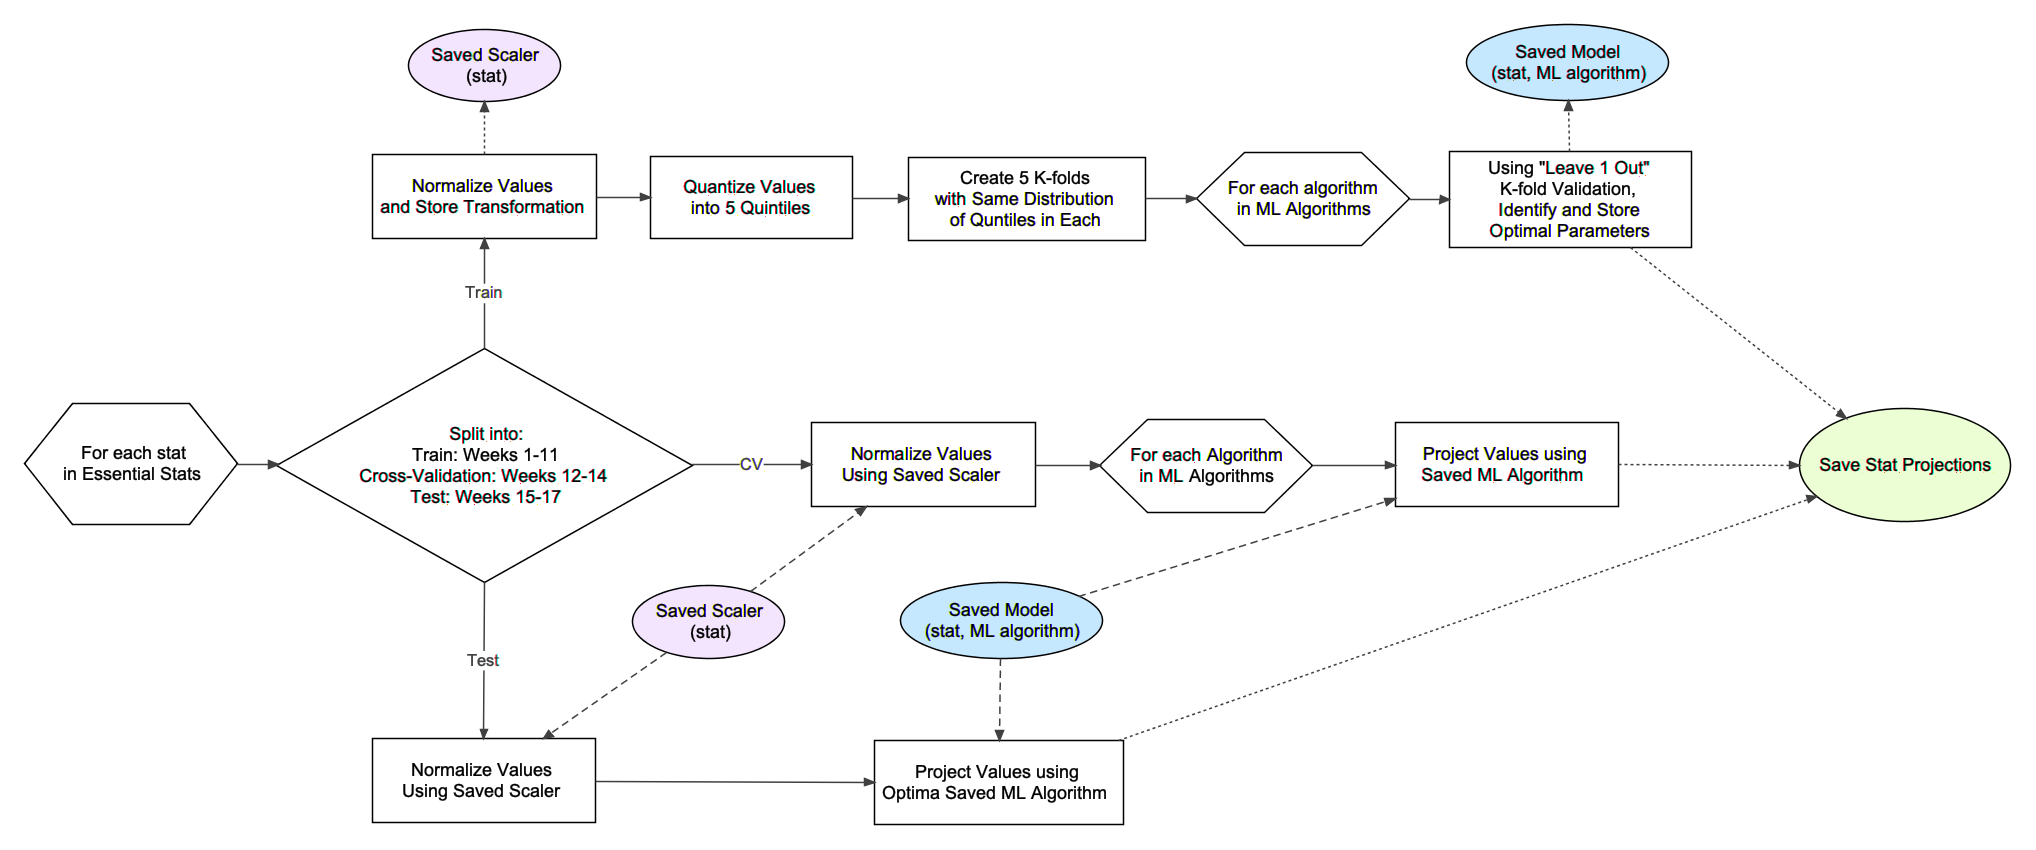
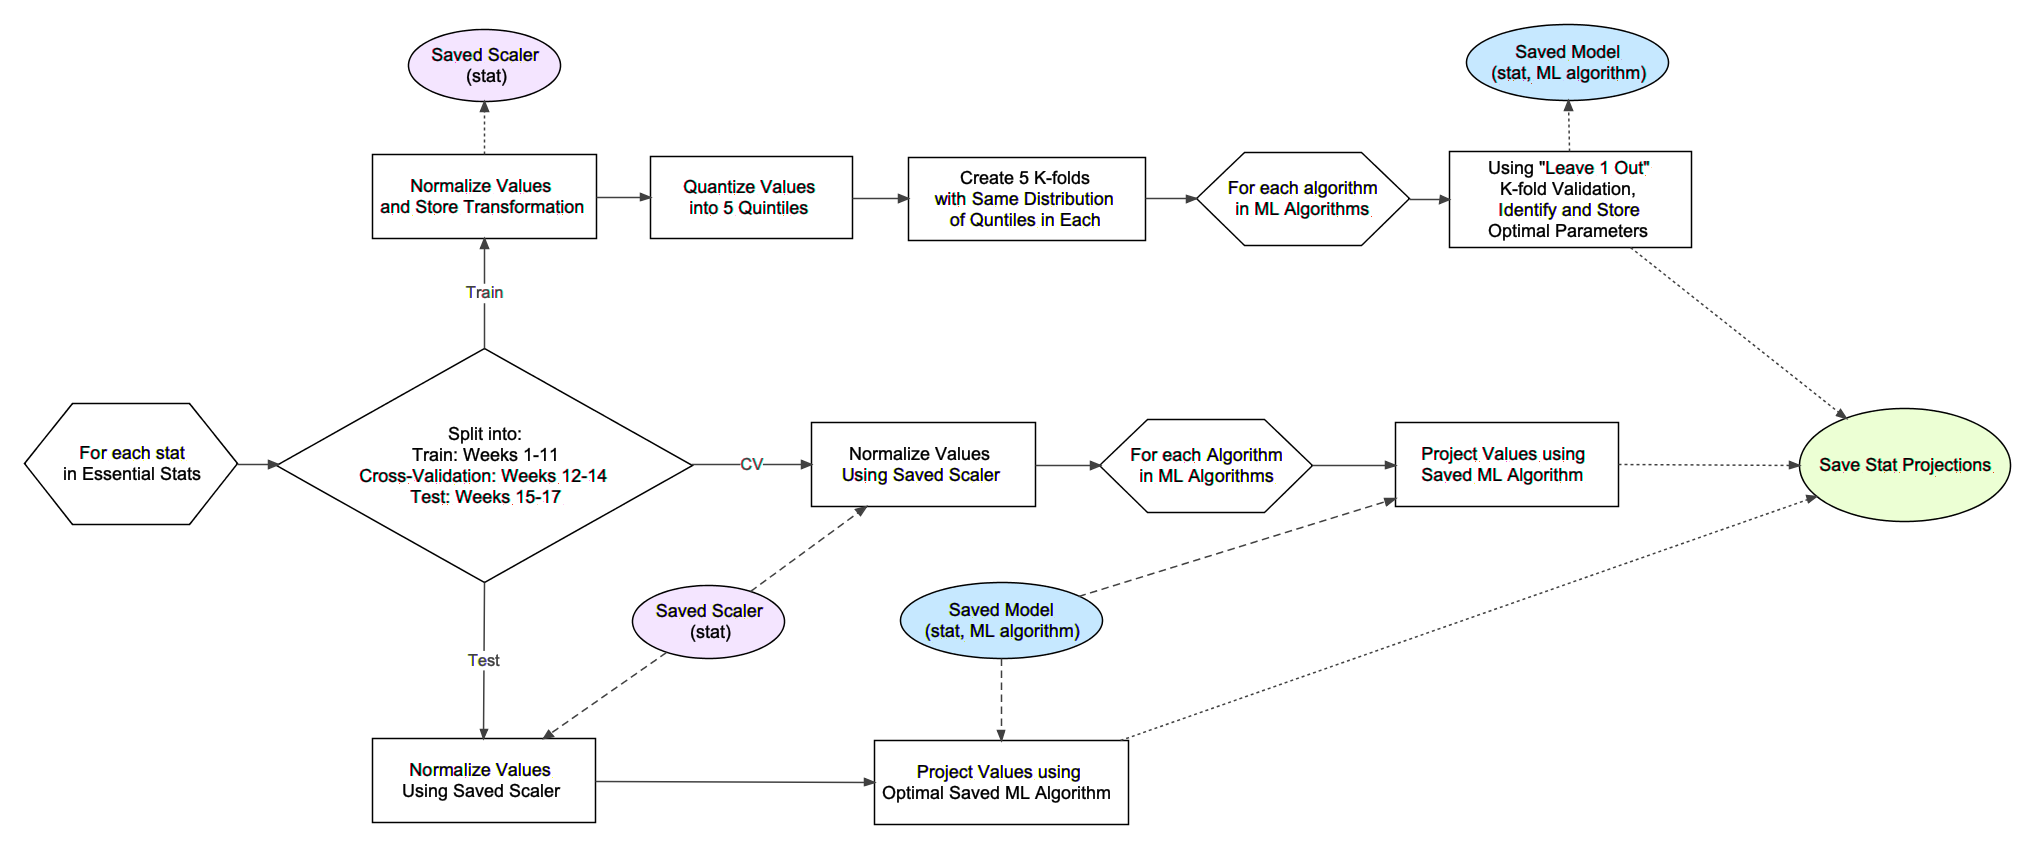
fixed typo

diff --git a/figures/ML flowchart.vue b/figures/ML flowchart.vue
@@ -1,14 +1,14 @@
-<!-- Tufts VUE 3.3.0 concept-map (ML flowchart.vue) 2019-04-03 -->
+<!-- Tufts VUE 3.3.0 concept-map (ML flowchart.vue) 2019-04-04 -->
 <!-- Tufts VUE: http://vue.tufts.edu/ -->
 <!-- Do Not Remove: VUE mapping @version(1.1) jar:file:/Applications/VUE.app/Contents/Resources/Java/VUE.jar!/tufts/vue/resources/lw_mapping_1_1.xml -->
-<!-- Do Not Remove: Saved date Wed Apr 03 12:22:08 CDT 2019 by jasonbecker on platform Mac OS X 10.14.4 in JVM 1.8.0_121-b13 -->
+<!-- Do Not Remove: Saved date Thu Apr 04 10:41:15 CDT 2019 by jasonbecker on platform Mac OS X 10.14.4 in JVM 1.8.0_121-b13 -->
 <!-- Do Not Remove: Saving version @(#)VUE: built October 8 2015 at 1658 by tomadm on Linux 2.6.32-504.23.4.el6.x86_64 i386 JVM 1.7.0_21-b11(bits=32) -->
 <?xml version="1.0" encoding="US-ASCII"?>
 <LW-MAP xmlns:xsi="http://www.w3.org/2001/XMLSchema-instance"
     xsi:noNamespaceSchemaLocation="none" ID="0" label="ML flowchart.vue"
     created="1554310875701" x="0.0" y="0.0" width="1.4E-45"
     height="1.4E-45" strokeWidth="0.0" autoSized="false">
-    <resource referenceCreated="1554312128605"
+    <resource referenceCreated="1554392475482" size="26427"
         spec="/Users/jasonbecker/PycharmProjects/dfspy/figures/ML flowchart.vue"
         type="1" xsi:type="URLResource">
         <title>ML flowchart.vue</title>
@@ -165,9 +165,9 @@
         <shape xsi:type="hexagon"/>
     </child>
     <child ID="23"
-        label="Project Values using&#xa;Optima Saved ML Algorithm "
+        label="Project Values using&#xa;Optimal Saved ML Algorithm "
         layerID="1" created="1554311642984" x="504.5" y="456.5"
-        width="166.0" height="56.0" strokeWidth="1.0" autoSized="false" xsi:type="node">
+        width="169.0" height="56.0" strokeWidth="1.0" autoSized="false" xsi:type="node">
         <fillColor>#FFFFFF</fillColor>
         <strokeColor>#000000</strokeColor>
         <textColor>#000000</textColor>
@@ -200,7 +200,7 @@
         <ID2 xsi:type="node">9</ID2>
     </child>
     <child ID="42" label="Train" layerID="1" created="1554311732621"
-        x="231.53601" y="121.5" width="26.0" height="74.03125"
+        x="232.03601" y="121.5" width="25.0" height="74.03125"
         strokeWidth="1.0" autoSized="false" controlCount="0"
         arrowState="2" xsi:type="link">
         <strokeColor>#404040</strokeColor>
@@ -226,7 +226,7 @@
         <ID2 xsi:type="node">16</ID2>
     </child>
     <child ID="44" label="Test" layerID="1" created="1554311736560"
-        x="232.72876" y="350.57812" width="23.0" height="105.421875"
+        x="233.22876" y="350.57812" width="22.0" height="105.421875"
         strokeWidth="1.0" autoSized="false" controlCount="0"
         arrowState="2" xsi:type="link">
         <strokeColor>#404040</strokeColor>
@@ -265,14 +265,14 @@
         <ID2 xsi:type="node">21</ID2>
     </child>
     <child ID="47" layerID="1" created="1554311741275" x="318.0"
-        y="483.21686" width="187.0" height="1.5414734" strokeWidth="1.0"
+        y="483.21594" width="187.0" height="1.5391235" strokeWidth="1.0"
         autoSized="false" controlCount="0" arrowState="2" xsi:type="link">
         <strokeColor>#404040</strokeColor>
         <textColor>#404040</textColor>
         <font>Arial-plain-11</font>
         <URIString>http://vue.tufts.edu/rdf/resource/e438e86bc0a8016d2f1d9753f484ee09</URIString>
-        <point1 x="318.5" y="483.7169"/>
-        <point2 x="504.5" y="484.25836"/>
+        <point1 x="318.5" y="483.71594"/>
+        <point2 x="504.5" y="484.25507"/>
         <ID1 xsi:type="node">17</ID1>
         <ID2 xsi:type="node">23</ID2>
     </child>
@@ -364,16 +364,16 @@
         <ID1 xsi:type="node">24</ID1>
         <ID2 xsi:type="node">21</ID2>
     </child>
-    <child ID="55" layerID="1" created="1554311760766" x="587.3889"
-        y="401.28906" width="1.7598267" height="55.710938"
-        strokeWidth="1.0" strokeStyle="4" autoSized="false"
-        controlCount="0" arrowState="2" xsi:type="link">
+    <child ID="55" layerID="1" created="1554311760766" x="588.49994"
+        y="401.30005" width="1.0" height="55.69998" strokeWidth="1.0"
+        strokeStyle="4" autoSized="false" controlCount="0"
+        arrowState="2" xsi:type="link">
         <strokeColor>#404040</strokeColor>
         <textColor>#404040</textColor>
         <font>Arial-plain-11</font>
         <URIString>http://vue.tufts.edu/rdf/resource/e438e86fc0a8016d2f1d97539d8f3a4a</URIString>
-        <point1 x="588.64874" y="401.78906"/>
-        <point2 x="587.8889" y="456.5"/>
+        <point1 x="588.99994" y="401.80002"/>
+        <point2 x="588.99994" y="456.5"/>
         <ID1 xsi:type="node">24</ID1>
         <ID2 xsi:type="node">23</ID2>
     </child>
@@ -413,16 +413,16 @@
         <URIString>http://vue.tufts.edu/rdf/resource/e438e870c0a8016d2f1d9753f1615c5f</URIString>
         <shape xsi:type="ellipse"/>
     </child>
-    <child ID="59" layerID="1" created="1554312023994" x="666.949"
-        y="293.08215" width="466.18237" height="163.91785"
+    <child ID="59" layerID="1" created="1554312023994" x="668.25024"
+        y="293.11993" width="464.91956" height="163.88007"
         strokeWidth="1.0" strokeStyle="2" autoSized="false"
         controlCount="0" arrowState="2" xsi:type="link">
         <strokeColor>#404040</strokeColor>
         <textColor>#404040</textColor>
         <font>Arial-plain-11</font>
         <URIString>http://vue.tufts.edu/rdf/resource/e438e871c0a8016d2f1d9753a1d4dedf</URIString>
-        <point1 x="667.449" y="456.5"/>
-        <point2 x="1132.6313" y="293.58215"/>
+        <point1 x="668.75024" y="456.5"/>
+        <point2 x="1132.6698" y="293.61993"/>
         <ID1 xsi:type="node">23</ID1>
         <ID2 xsi:type="node">58</ID2>
     </child>
@@ -456,13 +456,13 @@
         y="0.0" width="1.4E-45" height="1.4E-45" strokeWidth="0.0" autoSized="false">
         <URIString>http://vue.tufts.edu/rdf/resource/e438e872c0a8016d2f1d9753ef5a6ece</URIString>
     </layer>
-    <userZoom>1.0</userZoom>
+    <userZoom>0.728411808901734</userZoom>
     <userOrigin x="-134.0" y="-133.5"/>
     <presentationBackground>#202020</presentationBackground>
     <PathwayList currentPathway="0" revealerIndex="-1">
         <pathway ID="0" label="Untitled Pathway" created="1554310875701"
             x="0.0" y="0.0" width="1.4E-45" height="1.4E-45"
-            strokeWidth="0.0" autoSized="false" currentIndex="-1" open="true">
+            strokeWidth="0.0" autoSized="false" currentIndex="0" open="true">
             <strokeColor>#B3CC33CC</strokeColor>
             <textColor>#000000</textColor>
             <font>SansSerif-plain-14</font>
